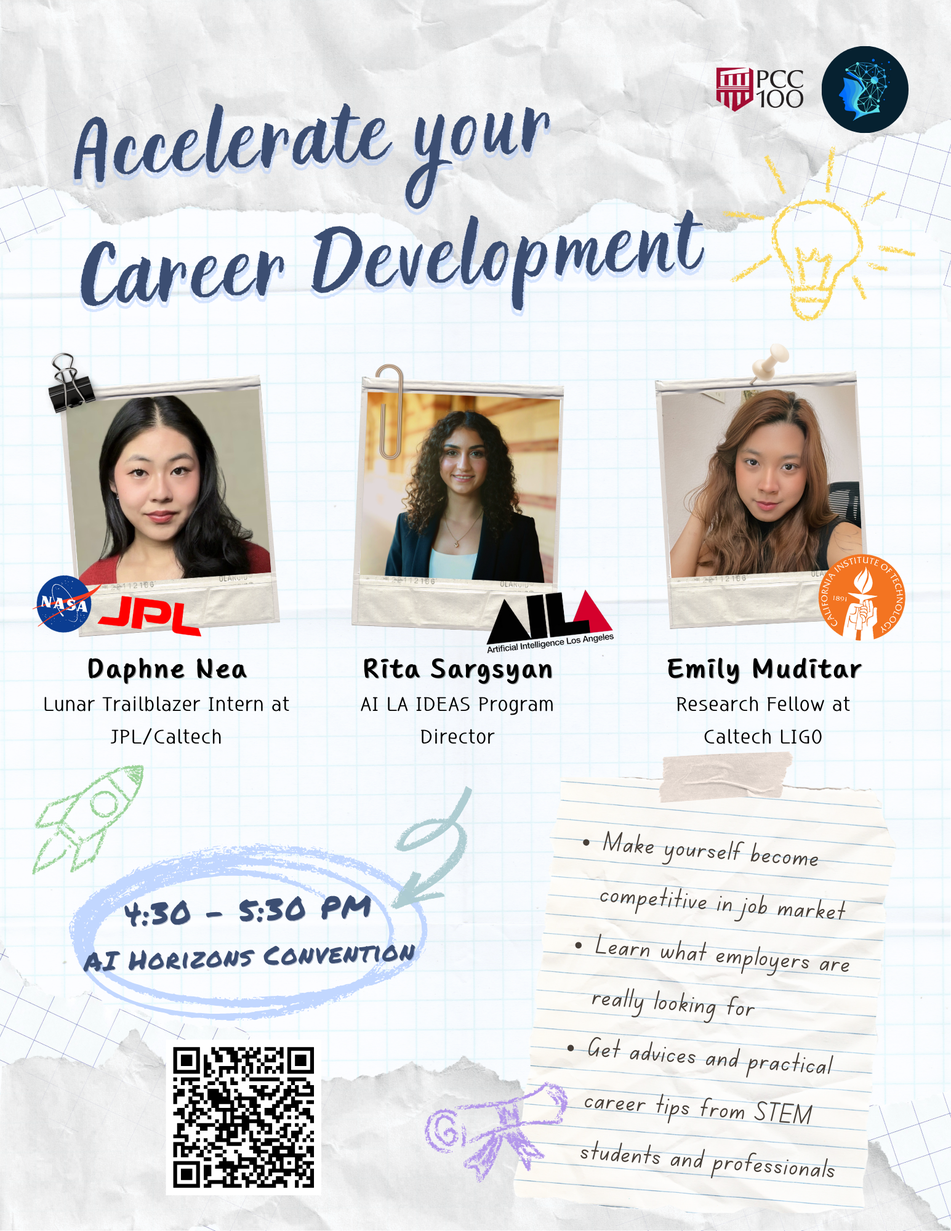
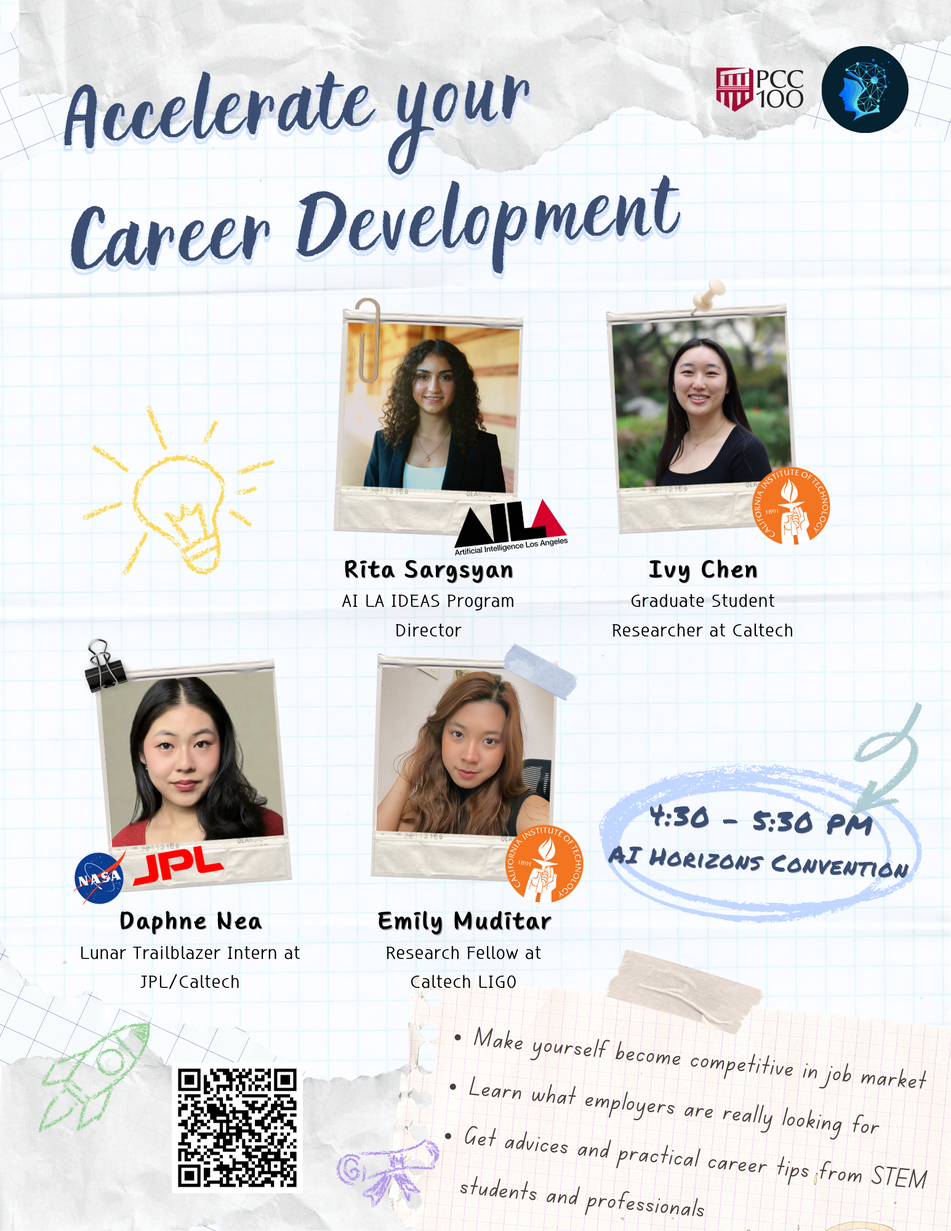
Updated speaker info

diff --git a/src/app/page.js b/src/app/page.js
@@ -364,19 +364,22 @@ export default function Home() {
                   </div>
                   <div className='panelist'>
                     <div className='paneltitle'>
+                      <img src="./images/panelists/ivy.jpg"/>
                       <div>
                         <h1>Ivy Chen</h1>
-                        <h2>Graduate Research Fellow at Caltech</h2>
+                        <h2>Graduate Student Researcher at Caltech</h2>
                       </div>
                     </div>
                     <div>
                       <p className='web'>
-
+                      Ivy is a third-year graduate student at Caltech studying applied physics. She completed her undergraduate degree at Harvey Mudd College before working at Google as a 
+                      software engineer prior to graduate school. Ivy's current research interests are in the field of nanofabrication, specifically in atomic layer etching for nanophotonic materials.
                       </p>
                       <div className='dropdown'>
                         <Dropdown>
                           <p>
-                            
+                          Ivy is a third-year graduate student at Caltech studying applied physics. She completed her undergraduate degree at Harvey Mudd College before working at Google as a 
+                          software engineer prior to graduate school. Ivy's current research interests are in the field of nanofabrication, specifically in atomic layer etching for nanophotonic materials.
                           </p>
                         </Dropdown>
                       </div>
